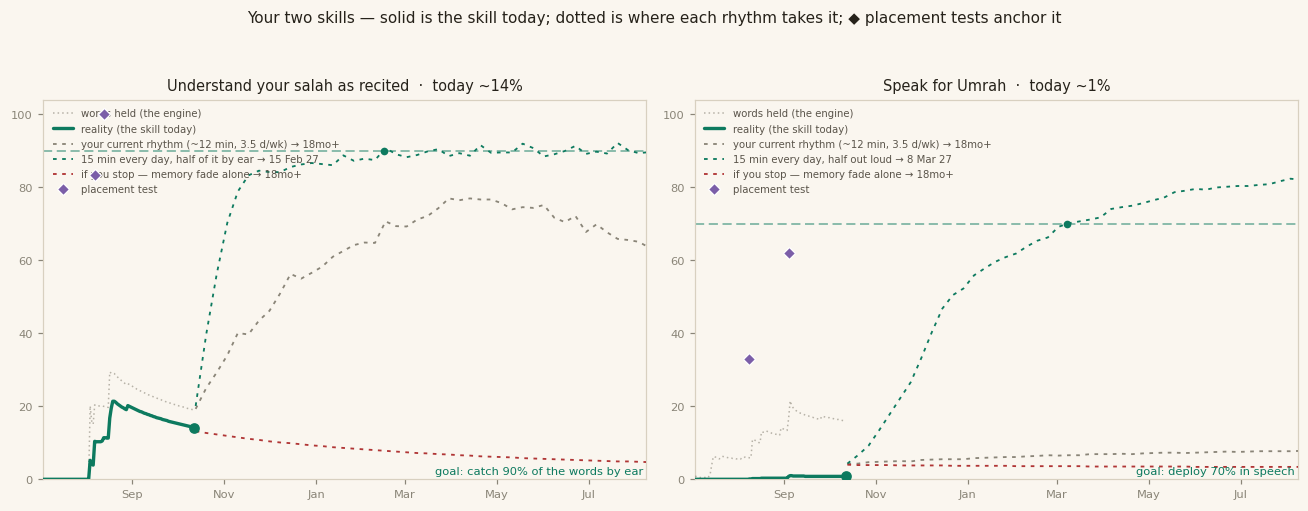
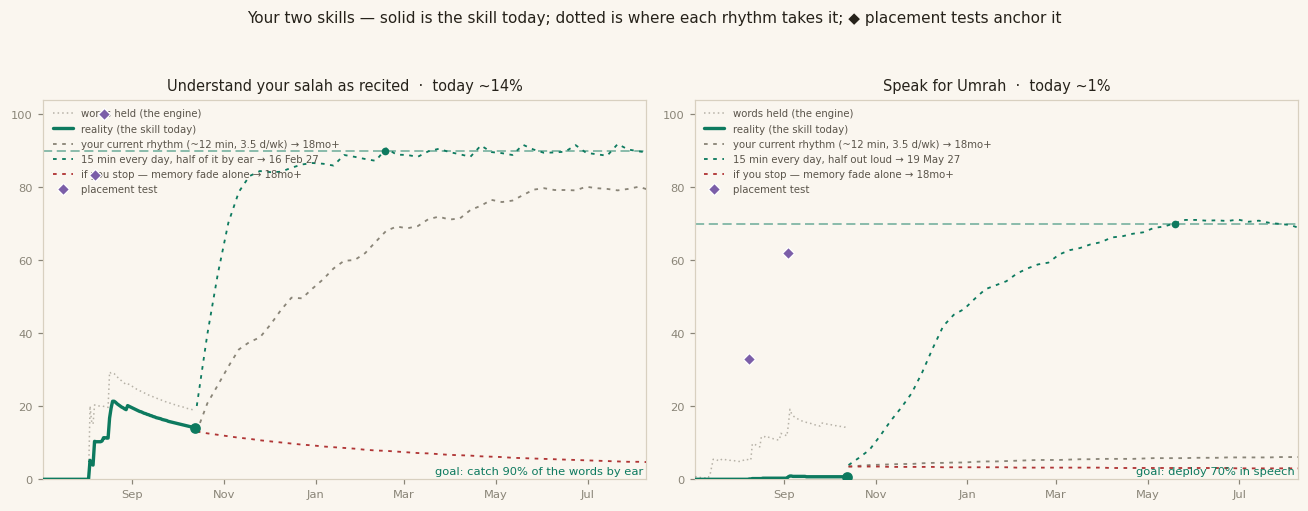
content(nightly): 💡 hooks for Mon 12 Oct slips (مصعد، سلم، دور) + exact-phrase key for يوم الثلاثاء; progress regen

diff --git a/sentences.html b/sentences.html
@@ -8,8 +8,8 @@
   <link rel="icon" href="icons/icon-192.png">
   <link rel="apple-touch-icon" href="icons/icon-192.png">
   <title>Sentence Practice & Master Bank — Arabic العربية</title>
-  <link rel="stylesheet" href="css/fonts.css?v=mv5ije21">
-  <link rel="stylesheet" href="css/style.css?v=mv5ije21">
+  <link rel="stylesheet" href="css/fonts.css?v=mv6005hk">
+  <link rel="stylesheet" href="css/style.css?v=mv6005hk">
   <style>
     .s-header { display: flex; justify-content: space-between; align-items: center; flex-wrap: wrap; gap: 12px; margin-bottom: 14px; }
     .stat-strip { display: flex; gap: 20px; align-items: baseline; }
@@ -283,18 +283,18 @@
   </div>
 </main>
 
-<script src="js/progress-model.js?v=mv5ije21"></script>
-<script src="js/curriculum.js?v=mv5ije21"></script>
-<script src="js/srs.js?v=mv5ije21"></script>
-<script src="js/frames.js?v=mv5ije21"></script>
-<script src="js/freetry.js?v=mv5ije21"></script>
-<script src="js/match.js?v=mv5ije21"></script>
-<script src="js/errors.js?v=mv5ije21"></script>
-<script src="js/tryit.js?v=mv5ije21"></script>
-<script src="js/app.js?v=mv5ije21"></script>
-<script src="js/tracker.js?v=mv5ije21"></script>
-<script src="js/plan.js?v=mv5ije21"></script>
-<script src="js/account.js?v=mv5ije21"></script>  <!-- after tracker.js: plan.js wraps logEvent, which tracker.js defines -->
+<script src="js/progress-model.js?v=mv6005hk"></script>
+<script src="js/curriculum.js?v=mv6005hk"></script>
+<script src="js/srs.js?v=mv6005hk"></script>
+<script src="js/frames.js?v=mv6005hk"></script>
+<script src="js/freetry.js?v=mv6005hk"></script>
+<script src="js/match.js?v=mv6005hk"></script>
+<script src="js/errors.js?v=mv6005hk"></script>
+<script src="js/tryit.js?v=mv6005hk"></script>
+<script src="js/app.js?v=mv6005hk"></script>
+<script src="js/tracker.js?v=mv6005hk"></script>
+<script src="js/plan.js?v=mv6005hk"></script>
+<script src="js/account.js?v=mv6005hk"></script>  <!-- after tracker.js: plan.js wraps logEvent, which tracker.js defines -->
 <script>
 renderNav("sentences");
 trackPage("sentences");

diff --git a/index.html b/index.html
@@ -8,8 +8,8 @@
   <link rel="icon" href="icons/icon-192.png">
   <link rel="apple-touch-icon" href="icons/icon-192.png">
   <title>Daily Reader — Arabic العربية</title>
-  <link rel="stylesheet" href="css/fonts.css?v=mv5ije21">
-  <link rel="stylesheet" href="css/style.css?v=mv5ije21">
+  <link rel="stylesheet" href="css/fonts.css?v=mv6005hk">
+  <link rel="stylesheet" href="css/style.css?v=mv6005hk">
   <style>
     .reader-header { display: flex; justify-content: space-between; align-items: center; flex-wrap: wrap; gap: 12px; margin-bottom: 12px; }
     .chap-select { font-size: 14.5px; font-weight: 600; padding: 6px 12px; border-radius: 10px; border: 1px solid var(--border); background: var(--card); color: var(--ink); }
@@ -250,16 +250,16 @@
   <p id="packLine" style="font-size:12px;color:var(--muted);text-align:center;margin:14px 0 0">📥 Loading offline audio pack…</p>
 </main>
 
-<script src="js/progress-model.js?v=mv5ije21"></script>
-<script src="js/curriculum.js?v=mv5ije21"></script>
-<script src="js/srs.js?v=mv5ije21"></script>
-<script src="js/match.js?v=mv5ije21"></script>
-<script src="js/errors.js?v=mv5ije21"></script>
-<script src="js/frames.js?v=mv5ije21"></script>
-<script src="js/app.js?v=mv5ije21"></script>
-<script src="js/tracker.js?v=mv5ije21"></script>
-<script src="js/plan.js?v=mv5ije21"></script>
-<script src="js/account.js?v=mv5ije21"></script>
+<script src="js/progress-model.js?v=mv6005hk"></script>
+<script src="js/curriculum.js?v=mv6005hk"></script>
+<script src="js/srs.js?v=mv6005hk"></script>
+<script src="js/match.js?v=mv6005hk"></script>
+<script src="js/errors.js?v=mv6005hk"></script>
+<script src="js/frames.js?v=mv6005hk"></script>
+<script src="js/app.js?v=mv6005hk"></script>
+<script src="js/tracker.js?v=mv6005hk"></script>
+<script src="js/plan.js?v=mv6005hk"></script>
+<script src="js/account.js?v=mv6005hk"></script>
 <script>
 renderNav("home");
 trackPage("home");

diff --git a/class.html b/class.html
@@ -8,8 +8,8 @@
   <link rel="icon" href="icons/icon-192.png">
   <link rel="apple-touch-icon" href="icons/icon-192.png">
   <title>Preply Lessons — Arabic العربية</title>
-  <link rel="stylesheet" href="css/fonts.css?v=mv5ije21">
-  <link rel="stylesheet" href="css/style.css?v=mv5ije21">
+  <link rel="stylesheet" href="css/fonts.css?v=mv6005hk">
+  <link rel="stylesheet" href="css/style.css?v=mv6005hk">
   <style>
     .class-tag { display: inline-flex; align-items: center; gap: 6px; padding: 4px 10px; border-radius: 999px; background: var(--accent-soft); color: var(--accent); font-size: 13px; font-weight: 600; margin-bottom: 8px; }
     .passage-box { background: #fcfaf5; border: 1px solid var(--border); border-radius: 14px; padding: 18px 20px; margin: 16px 0; }
@@ -497,16 +497,16 @@
   </div>
 </main>
 
-<script src="js/progress-model.js?v=mv5ije21"></script>
-<script src="js/curriculum.js?v=mv5ije21"></script>
-<script src="js/srs.js?v=mv5ije21"></script>
-<script src="js/app.js?v=mv5ije21"></script>
-<script src="js/tracker.js?v=mv5ije21"></script>
-<script src="js/frames.js?v=mv5ije21"></script>
-<script src="js/freetry.js?v=mv5ije21"></script>
-<script src="js/errors.js?v=mv5ije21"></script>
-<script src="js/plan.js?v=mv5ije21"></script>
-<script src="js/account.js?v=mv5ije21"></script>
+<script src="js/progress-model.js?v=mv6005hk"></script>
+<script src="js/curriculum.js?v=mv6005hk"></script>
+<script src="js/srs.js?v=mv6005hk"></script>
+<script src="js/app.js?v=mv6005hk"></script>
+<script src="js/tracker.js?v=mv6005hk"></script>
+<script src="js/frames.js?v=mv6005hk"></script>
+<script src="js/freetry.js?v=mv6005hk"></script>
+<script src="js/errors.js?v=mv6005hk"></script>
+<script src="js/plan.js?v=mv6005hk"></script>
+<script src="js/account.js?v=mv6005hk"></script>
 <script>
 renderNav("classes");
 trackPage("classes");

diff --git a/words.html b/words.html
@@ -8,8 +8,8 @@
   <link rel="icon" href="icons/icon-192.png">
   <link rel="apple-touch-icon" href="icons/icon-192.png">
   <title>Vocabulary Practice & Master Library — Arabic العربية</title>
-  <link rel="stylesheet" href="css/fonts.css?v=mv5ije21">
-  <link rel="stylesheet" href="css/style.css?v=mv5ije21">
+  <link rel="stylesheet" href="css/fonts.css?v=mv6005hk">
+  <link rel="stylesheet" href="css/style.css?v=mv6005hk">
   <style>
     .v-header { display: flex; justify-content: space-between; align-items: center; flex-wrap: wrap; gap: 12px; margin-bottom: 14px; }
     .stat-strip { display: flex; gap: 20px; align-items: baseline; }
@@ -275,16 +275,16 @@
   </div>
 </main>
 
-<script src="js/progress-model.js?v=mv5ije21"></script>
-<script src="js/curriculum.js?v=mv5ije21"></script>
-<script src="js/srs.js?v=mv5ije21"></script>
-<script src="js/match.js?v=mv5ije21"></script>
-<script src="js/errors.js?v=mv5ije21"></script>
-<script src="js/tryit.js?v=mv5ije21"></script>
-<script src="js/app.js?v=mv5ije21"></script>
-<script src="js/tracker.js?v=mv5ije21"></script>
-<script src="js/plan.js?v=mv5ije21"></script>
-<script src="js/account.js?v=mv5ije21"></script>
+<script src="js/progress-model.js?v=mv6005hk"></script>
+<script src="js/curriculum.js?v=mv6005hk"></script>
+<script src="js/srs.js?v=mv6005hk"></script>
+<script src="js/match.js?v=mv6005hk"></script>
+<script src="js/errors.js?v=mv6005hk"></script>
+<script src="js/tryit.js?v=mv6005hk"></script>
+<script src="js/app.js?v=mv6005hk"></script>
+<script src="js/tracker.js?v=mv6005hk"></script>
+<script src="js/plan.js?v=mv6005hk"></script>
+<script src="js/account.js?v=mv6005hk"></script>
 <script>
 renderNav("words");
 trackPage("words");

diff --git a/more.html b/more.html
@@ -8,8 +8,8 @@
   <link rel="icon" href="icons/icon-192.png">
   <link rel="apple-touch-icon" href="icons/icon-192.png">
   <title>All activities — Arabic</title>
-  <link rel="stylesheet" href="css/fonts.css?v=mv5ije21">
-  <link rel="stylesheet" href="css/style.css?v=mv5ije21">
+  <link rel="stylesheet" href="css/fonts.css?v=mv6005hk">
+  <link rel="stylesheet" href="css/style.css?v=mv6005hk">
   <style>
     .act-grid { display: grid; grid-template-columns: repeat(auto-fill, minmax(240px, 1fr)); gap: 12px; }
     .act {
@@ -124,13 +124,13 @@
   </div>
 </main>
 
-<script src="js/progress-model.js?v=mv5ije21"></script>
-<script src="js/curriculum.js?v=mv5ije21"></script>
-<script src="js/srs.js?v=mv5ije21"></script>
-<script src="js/app.js?v=mv5ije21"></script>
-<script src="js/tracker.js?v=mv5ije21"></script>
-<script src="js/account.js?v=mv5ije21"></script>
-<script src="js/plan.js?v=mv5ije21"></script>
+<script src="js/progress-model.js?v=mv6005hk"></script>
+<script src="js/curriculum.js?v=mv6005hk"></script>
+<script src="js/srs.js?v=mv6005hk"></script>
+<script src="js/app.js?v=mv6005hk"></script>
+<script src="js/tracker.js?v=mv6005hk"></script>
+<script src="js/account.js?v=mv6005hk"></script>
+<script src="js/plan.js?v=mv6005hk"></script>
 <script>
   renderNav("more");
   trackPage("more");

diff --git a/learn.html b/learn.html
@@ -8,8 +8,8 @@
   <link rel="icon" href="icons/icon-192.png">
   <link rel="apple-touch-icon" href="icons/icon-192.png">
   <title>Learn — Arabic</title>
-  <link rel="stylesheet" href="css/fonts.css?v=mv5ije21">
-  <link rel="stylesheet" href="css/style.css?v=mv5ije21">
+  <link rel="stylesheet" href="css/fonts.css?v=mv6005hk">
+  <link rel="stylesheet" href="css/style.css?v=mv6005hk">
   <style>
     .crumb { font-size: 13px; color: var(--muted); margin-bottom: 4px; }
     .q-ar { font-size: 30px; line-height: 1.8; text-align: center; margin: 16px 0 10px; }
@@ -33,12 +33,12 @@
 <body>
 <main><div id="app"><p>Loading…</p></div></main>
 
-<script src="js/progress-model.js?v=mv5ije21"></script>
-<script src="js/curriculum.js?v=mv5ije21"></script>
-<script src="js/srs.js?v=mv5ije21"></script>
-<script src="js/app.js?v=mv5ije21"></script>
-<script src="js/tracker.js?v=mv5ije21"></script>
-<script src="js/plan.js?v=mv5ije21"></script>
+<script src="js/progress-model.js?v=mv6005hk"></script>
+<script src="js/curriculum.js?v=mv6005hk"></script>
+<script src="js/srs.js?v=mv6005hk"></script>
+<script src="js/app.js?v=mv6005hk"></script>
+<script src="js/tracker.js?v=mv6005hk"></script>
+<script src="js/plan.js?v=mv6005hk"></script>
 <script>
 renderNav("learn");
 trackPage("learn");

diff --git a/map.html b/map.html
@@ -8,8 +8,8 @@
   <link rel="icon" href="icons/icon-192.png">
   <link rel="apple-touch-icon" href="icons/icon-192.png">
   <title>Progress — Arabic</title>
-  <link rel="stylesheet" href="css/fonts.css?v=mv5ije21">
-  <link rel="stylesheet" href="css/style.css?v=mv5ije21">
+  <link rel="stylesheet" href="css/fonts.css?v=mv6005hk">
+  <link rel="stylesheet" href="css/style.css?v=mv6005hk">
   <style>
     .hold { display: grid; grid-template-columns: repeat(auto-fit, minmax(150px, 1fr)); gap: 12px; }
     .hold a { display: block; text-decoration: none; color: inherit; border: 1px solid var(--border);
@@ -70,12 +70,12 @@
   </div>
 </main>
 
-<script src="js/progress-model.js?v=mv5ije21"></script>
-<script src="js/curriculum.js?v=mv5ije21"></script>
-<script src="js/srs.js?v=mv5ije21"></script>
-<script src="js/app.js?v=mv5ije21"></script>
-<script src="js/tracker.js?v=mv5ije21"></script>
-<script src="js/plan.js?v=mv5ije21"></script>
+<script src="js/progress-model.js?v=mv6005hk"></script>
+<script src="js/curriculum.js?v=mv6005hk"></script>
+<script src="js/srs.js?v=mv6005hk"></script>
+<script src="js/app.js?v=mv6005hk"></script>
+<script src="js/tracker.js?v=mv6005hk"></script>
+<script src="js/plan.js?v=mv6005hk"></script>
 <script>
 renderNav("map");
 trackPage("map");

diff --git a/audio.html b/audio.html
@@ -8,8 +8,8 @@
   <link rel="icon" href="icons/icon-192.png">
   <link rel="apple-touch-icon" href="icons/icon-192.png">
   <title>Audio Coach — Arabic</title>
-  <link rel="stylesheet" href="css/fonts.css?v=mv5ije21">
-  <link rel="stylesheet" href="css/style.css?v=mv5ije21">
+  <link rel="stylesheet" href="css/fonts.css?v=mv6005hk">
+  <link rel="stylesheet" href="css/style.css?v=mv6005hk">
   <style>
     .ac-stage {
       text-align: center; padding: 26px 16px 30px; border-radius: 18px;
@@ -49,13 +49,13 @@
   <div id="content">Loading…</div>
 </main>
 
-<script src="js/srs.js?v=mv5ije21"></script>
-<script src="js/frames.js?v=mv5ije21"></script>
-<script src="js/freetry.js?v=mv5ije21"></script>
-<script src="js/app.js?v=mv5ije21"></script>
-<script src="js/tracker.js?v=mv5ije21"></script>
-<script src="js/plan.js?v=mv5ije21"></script>
-<script src="js/account.js?v=mv5ije21"></script>
+<script src="js/srs.js?v=mv6005hk"></script>
+<script src="js/frames.js?v=mv6005hk"></script>
+<script src="js/freetry.js?v=mv6005hk"></script>
+<script src="js/app.js?v=mv6005hk"></script>
+<script src="js/tracker.js?v=mv6005hk"></script>
+<script src="js/plan.js?v=mv6005hk"></script>
+<script src="js/account.js?v=mv6005hk"></script>
 <script>
 renderNav("audio");
 trackPage("audio");

diff --git a/converse.html b/converse.html
@@ -8,8 +8,8 @@
   <link rel="icon" href="icons/icon-192.png">
   <link rel="apple-touch-icon" href="icons/icon-192.png">
   <title>Conversation Partner — Arabic</title>
-  <link rel="stylesheet" href="css/fonts.css?v=mv5ije21">
-  <link rel="stylesheet" href="css/style.css?v=mv5ije21">
+  <link rel="stylesheet" href="css/fonts.css?v=mv6005hk">
+  <link rel="stylesheet" href="css/style.css?v=mv6005hk">
   <style>
     .cv-steps { display: grid; gap: 10px; margin: 8px 0 2px; }
     .cv-step { display: flex; gap: 10px; align-items: flex-start; font-size: 14.5px; }
@@ -35,12 +35,12 @@
   <div id="content">Loading…</div>
 </main>
 
-<script src="js/progress-model.js?v=mv5ije21"></script>
-<script src="js/curriculum.js?v=mv5ije21"></script>
-<script src="js/srs.js?v=mv5ije21"></script>
-<script src="js/app.js?v=mv5ije21"></script>
-<script src="js/tracker.js?v=mv5ije21"></script>
-<script src="js/plan.js?v=mv5ije21"></script>
+<script src="js/progress-model.js?v=mv6005hk"></script>
+<script src="js/curriculum.js?v=mv6005hk"></script>
+<script src="js/srs.js?v=mv6005hk"></script>
+<script src="js/app.js?v=mv6005hk"></script>
+<script src="js/tracker.js?v=mv6005hk"></script>
+<script src="js/plan.js?v=mv6005hk"></script>
 <script>
 renderNav("converse");
 trackPage("converse");

diff --git a/placement.html b/placement.html
@@ -8,8 +8,8 @@
   <link rel="icon" href="icons/icon-192.png">
   <link rel="apple-touch-icon" href="icons/icon-192.png">
   <title>Listening Placement — Arabic</title>
-  <link rel="stylesheet" href="css/fonts.css?v=mv5ije21">
-  <link rel="stylesheet" href="css/style.css?v=mv5ije21">
+  <link rel="stylesheet" href="css/fonts.css?v=mv6005hk">
+  <link rel="stylesheet" href="css/style.css?v=mv6005hk">
   <style>
     .pl-opt { display:block; width:100%; text-align:left; margin-top:8px; padding:10px 14px; border-radius:12px; font-size:14.5px; line-height:1.5; }
     .pl-opt.ok { background: var(--accent-soft); border-color: var(--accent); }
@@ -31,11 +31,11 @@
   </div>
 </main>
 
-<script src="js/srs.js?v=mv5ije21"></script>
-<script src="js/app.js?v=mv5ije21"></script>
-<script src="js/tracker.js?v=mv5ije21"></script>
-<script src="js/plan.js?v=mv5ije21"></script>
-<script src="js/progress-model.js?v=mv5ije21"></script>
+<script src="js/srs.js?v=mv6005hk"></script>
+<script src="js/app.js?v=mv6005hk"></script>
+<script src="js/tracker.js?v=mv6005hk"></script>
+<script src="js/plan.js?v=mv6005hk"></script>
+<script src="js/progress-model.js?v=mv6005hk"></script>
 <script>
 renderNav("placement");
 trackPage("placement");

diff --git a/vocab.html b/vocab.html
@@ -8,8 +8,8 @@
   <link rel="icon" href="icons/icon-192.png">
   <link rel="apple-touch-icon" href="icons/icon-192.png">
   <title>Vocab Lab — Arabic</title>
-  <link rel="stylesheet" href="css/fonts.css?v=mv5ije21">
-  <link rel="stylesheet" href="css/style.css?v=mv5ije21">
+  <link rel="stylesheet" href="css/fonts.css?v=mv6005hk">
+  <link rel="stylesheet" href="css/style.css?v=mv6005hk">
   <style>
     .fam-grid { display: grid; grid-template-columns: repeat(auto-fill, minmax(220px, 1fr)); gap: 14px; }
     .fam-card {
@@ -52,10 +52,10 @@
   <div id="kbDock"></div>
 </main>
 
-<script src="js/srs.js?v=mv5ije21"></script>
-<script src="js/app.js?v=mv5ije21"></script>
-<script src="js/tracker.js?v=mv5ije21"></script>
-<script src="js/plan.js?v=mv5ije21"></script>
+<script src="js/srs.js?v=mv6005hk"></script>
+<script src="js/app.js?v=mv6005hk"></script>
+<script src="js/tracker.js?v=mv6005hk"></script>
+<script src="js/plan.js?v=mv6005hk"></script>
 <script>
 renderNav(new URLSearchParams(location.search).get("view") === "lessons" ? "lessons" : "vocab");
 

diff --git a/speaking.html b/speaking.html
@@ -8,8 +8,8 @@
   <link rel="icon" href="icons/icon-192.png">
   <link rel="apple-touch-icon" href="icons/icon-192.png">
   <title>Speaking — Arabic</title>
-  <link rel="stylesheet" href="css/fonts.css?v=mv5ije21">
-  <link rel="stylesheet" href="css/style.css?v=mv5ije21">
+  <link rel="stylesheet" href="css/fonts.css?v=mv6005hk">
+  <link rel="stylesheet" href="css/style.css?v=mv6005hk">
   <style>
     .chips { display: flex; gap: 6px; flex-wrap: wrap; margin-bottom: 12px; }
     .chips button { border-radius: 999px; font-size: 13px; padding: 5px 12px; }
@@ -69,10 +69,10 @@
   </div>
 </main>
 
-<script src="js/srs.js?v=mv5ije21"></script>
-<script src="js/app.js?v=mv5ije21"></script>
-<script src="js/tracker.js?v=mv5ije21"></script>
-<script src="js/plan.js?v=mv5ije21"></script>
+<script src="js/srs.js?v=mv6005hk"></script>
+<script src="js/app.js?v=mv6005hk"></script>
+<script src="js/tracker.js?v=mv6005hk"></script>
+<script src="js/plan.js?v=mv6005hk"></script>
 <script>
 renderNav("speaking");
 trackPage("speaking");
